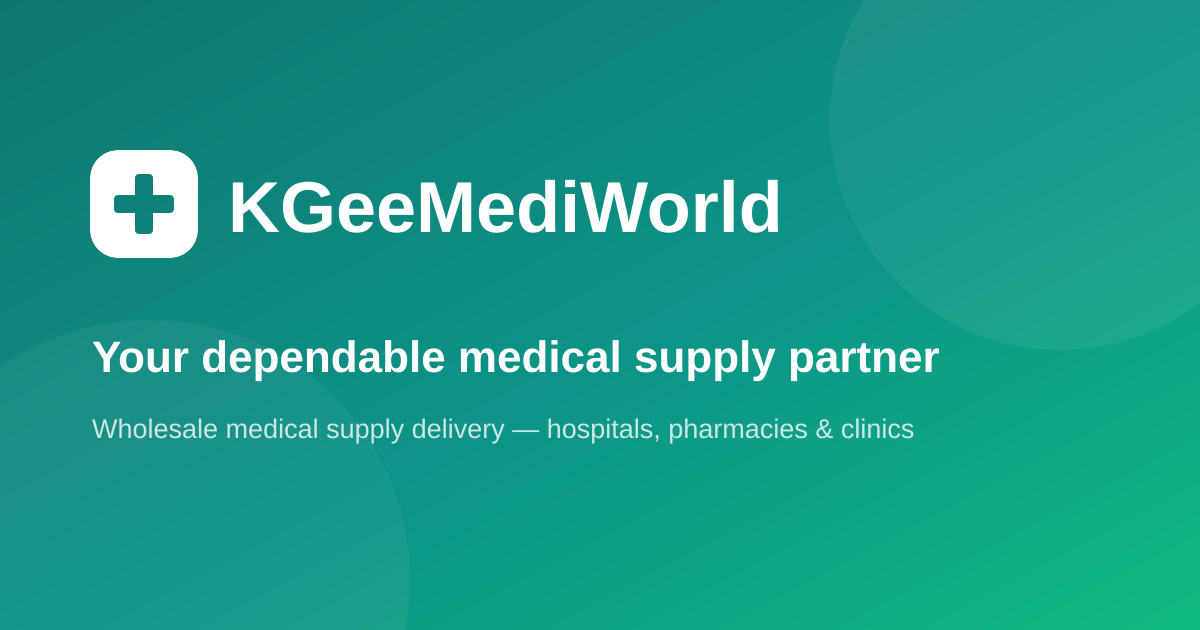
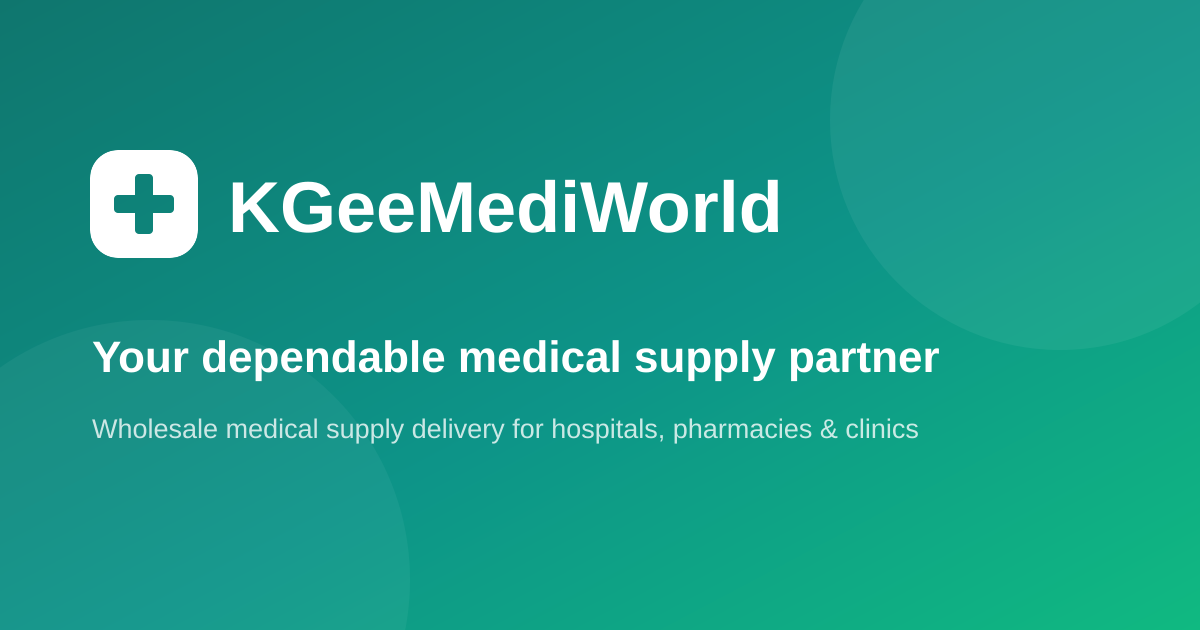
fix: humanize site copy and remove em dashes
- Warmer, plainer phrasing across hero, about, services, why-us, contact
- Title separator | instead of em dash; aria-label comma
- OG image regenerated without the em dash subtitle

Changed region(s): [[0.4317, 0.6635, 0.7708, 0.7238]]

diff --git a/content/site.ts b/content/site.ts
@@ -95,7 +95,7 @@ export const siteContent: SiteContent = {
   name: "KGeeMediWorld",
   tagline: "Your dependable medical supply partner",
   description:
-    "KGeeMediWorld delivers the medical supplies healthcare businesses depend on — reliable, on-time delivery for hospitals, pharmacies, and clinics.",
+    "KGeeMediWorld delivers the medical supplies healthcare businesses depend on. Reliable, on-time delivery for hospitals, pharmacies, and clinics.",
 
   nav: [
     { label: "About", href: "#about" },
@@ -105,9 +105,9 @@ export const siteContent: SiteContent = {
   ],
 
   hero: {
-    headline: "The medical supplies your facility depends on — delivered on time.",
+    headline: "The medical supplies your facility depends on, delivered on time.",
     subhead:
-      "KGeeMediWorld is a wholesale medical supply delivery partner for hospitals, pharmacies, and clinics. Dependable stock, fast turnaround, and a team that treats your supply chain like it matters.",
+      "KGeeMediWorld keeps hospitals, pharmacies, and clinics stocked with the supplies they count on. You get dependable inventory, fast turnaround, and a team that treats your supply chain like their own.",
     primaryCta: { label: "Call to order", href: "tel:[phone redacted]" },
     secondaryCta: { label: "Email us", href: "mailto:[email redacted]" },
   },
@@ -116,8 +116,8 @@ export const siteContent: SiteContent = {
     heading: "Who we are",
     lead: "A medical supply distributor built around one promise: your shelves stay stocked.",
     body: [
-      "KGeeMediWorld supplies the healthcare businesses that care for everyone else. We deliver the consumables, equipment, and everyday essentials that hospitals, pharmacies, and clinics rely on — sourced from vetted manufacturers and delivered on a schedule you can plan around.",
-      "We're not a marketplace or a middleman you have to chase for updates. We're a delivery partner: real people, predictable timelines, and a catalog broad enough to consolidate your ordering with a single dependable source.",
+      "KGeeMediWorld supplies the healthcare businesses that care for everyone else. We deliver the consumables, equipment, and everyday essentials that hospitals, pharmacies, and clinics rely on. Everything comes from manufacturers we have vetted ourselves, on a schedule you can actually plan around.",
+      "We're not a marketplace, and we're not a middleman you have to chase for updates. When you call, a real person who knows your account picks up. Timelines hold, and our catalog is broad enough that one dependable supplier can cover your ordering.",
     ],
   },
 
@@ -128,7 +128,7 @@ export const siteContent: SiteContent = {
       {
         title: "Bulk supply delivery",
         description:
-          "Wholesale quantities of consumables, PPE, wound care, and diagnostics — delivered to your loading dock, not your doorstep.",
+          "Wholesale quantities of consumables, PPE, wound care, and diagnostics, delivered straight to your loading dock.",
         icon: "Truck",
       },
       {
@@ -154,7 +154,7 @@ export const siteContent: SiteContent = {
 
   whyUs: {
     heading: "Why facilities choose us",
-    intro: "The difference is dependability — measured in on-time deliveries, not promises.",
+    intro: "The difference is dependability. We measure it in on-time deliveries, not promises.",
     items: [
       {
         title: "On time, every time",
@@ -168,7 +168,7 @@ export const siteContent: SiteContent = {
       },
       {
         title: "A real account team",
-        description: "Talk to people who know your facility — not a ticket queue.",
+        description: "Talk to people who know your facility, not a ticket queue.",
         icon: "Headset",
       },
       {
@@ -182,7 +182,7 @@ export const siteContent: SiteContent = {
   contact: {
     heading: "Get in touch",
     intro:
-      "Ready to simplify your medical supply chain? Reach us directly — a real person will help you set up an account or place an order.",
+      "Ready to simplify your medical supply chain? Give us a call and a real person will help you set up an account or place your first order.",
     phone: "[phone redacted]",
     phoneHref: "tel:[phone redacted]",
     email: "[email redacted]",

diff --git a/app/layout.tsx b/app/layout.tsx
@@ -13,7 +13,7 @@ const inter = Inter({
   display: "swap",
 });
 
-const title = `${siteContent.name} — ${siteContent.tagline}`;
+const title = `${siteContent.name} | ${siteContent.tagline}`;
 
 export const metadata: Metadata = {
   metadataBase: new URL(siteUrl),

diff --git a/components/layout/Header.tsx b/components/layout/Header.tsx
@@ -12,7 +12,7 @@ export function Header() {
       <Container className="flex h-16 items-center justify-between gap-4">
         <a
           href="#top"
-          aria-label={`${name} — back to top`}
+          aria-label={`${name}, back to top`}
           className="rounded-md focus-visible:outline-2 focus-visible:outline-offset-2 focus-visible:outline-ring"
         >
           <Logo />